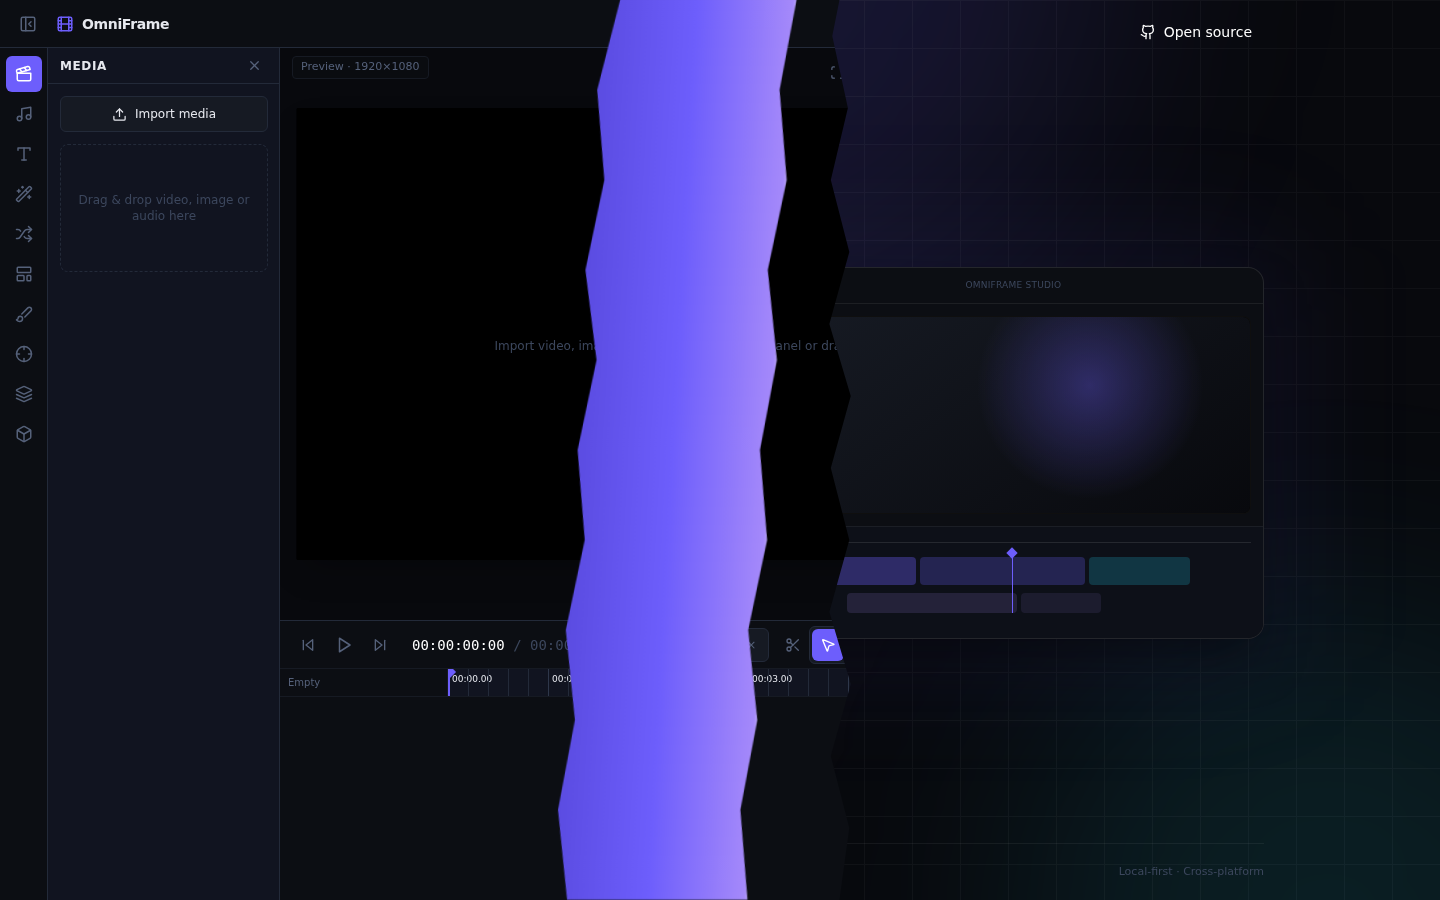
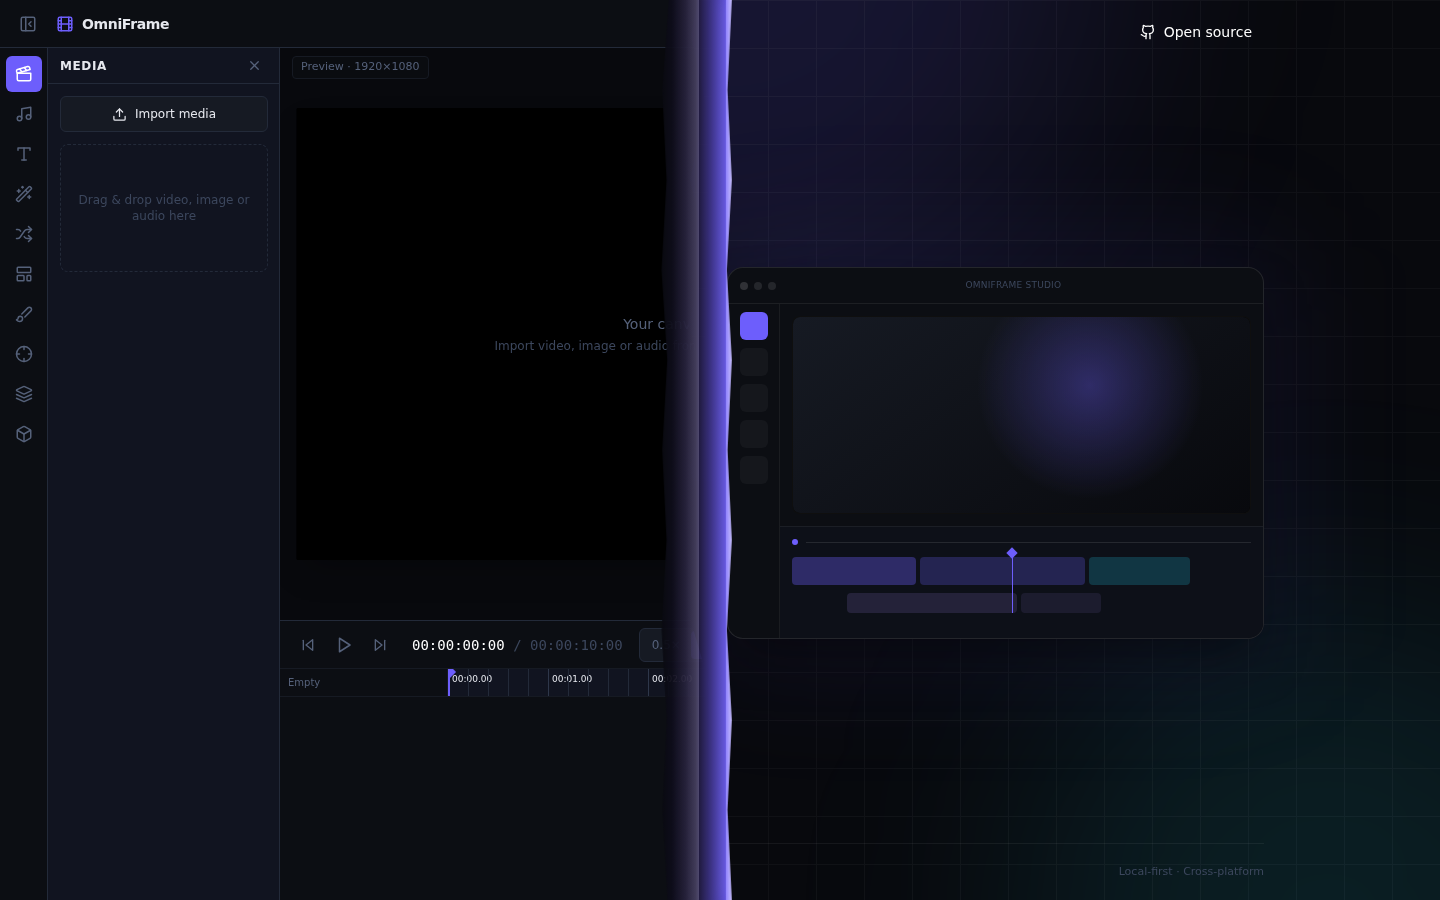
Refine Studio reveal into slim paper-cut transition

Changed region(s): [[0.375, 0.0, 0.5938, 1.0], [0.5625, 0.6844, 0.5938, 0.7467]]

diff --git a/src/App.tsx b/src/App.tsx
@@ -31,7 +31,7 @@ export default function App() {
       window.location.hash = 'studio'
       setStudio(true)
       setTransitioning(false)
-    }, reduced ? 60 : 1180)
+    }, reduced ? 60 : 980)
   }
 
   return (
@@ -47,9 +47,10 @@ export default function App() {
         </div>
       )}
       {transitioning && (
-        <div data-testid="transition-wave" className="pointer-events-none absolute inset-y-0 left-0 z-30 w-[14vw] min-w-24 of-transition-wave" aria-hidden="true">
-          <div className="absolute inset-0 bg-gradient-to-r from-brand-600 via-brand to-violet-400 shadow-[0_0_70px_rgba(109,94,252,.45)]" />
-          <div className="absolute inset-y-0 right-[-2px] w-1 bg-white/25 blur-[1px]" />
+        <div data-testid="transition-wave" className="pointer-events-none absolute inset-y-0 left-0 z-30 w-[5vw] min-w-12 max-w-20 of-transition-wave" aria-hidden="true">
+          <div className="absolute inset-0 bg-gradient-to-r from-[#090a10]/95 via-[#1a1530]/95 to-brand shadow-[-14px_0_28px_rgba(0,0,0,.45),10px_0_32px_rgba(109,94,252,.28)]" />
+          <div className="absolute inset-y-0 left-[16%] w-[38%] bg-gradient-to-r from-transparent via-violet-300/10 to-violet-200/25" />
+          <div className="absolute inset-y-0 right-0 w-1.5 bg-gradient-to-r from-brand-400 to-violet-200/80 shadow-[0_0_16px_rgba(144,131,255,.55)]" />
         </div>
       )}
     </div>

diff --git a/src/index.css b/src/index.css
@@ -83,16 +83,16 @@ body {
 .of-hero-copy { animation: of-copy-in 0.65s 0.08s cubic-bezier(.2,.8,.2,1) both; }
 .of-hero-visual { animation: of-visual-in 0.75s 0.16s cubic-bezier(.2,.8,.2,1) both; transform-style: preserve-3d; }
 .of-landing-leave {
-  animation: of-landing-mask-out 0.68s cubic-bezier(.4,0,.2,1) both;
+  animation: of-landing-mask-out 0.98s cubic-bezier(.4,0,.2,1) both;
 }
 
 @keyframes of-transition-wave-move {
-  0% { left: -14vw; transform: skewX(-5deg) scaleX(.9); }
-  48% { left: 43vw; transform: skewX(-3deg) scaleX(1); }
-  100% { left: 106vw; transform: skewX(-5deg) scaleX(.9); }
+  0% { left: -6vw; transform: scaleX(.82); }
+  48% { left: 47.5vw; transform: scaleX(1); }
+  100% { left: 103vw; transform: scaleX(.82); }
 }
 .of-transition-wave {
-  animation: of-transition-wave-move 1.18s cubic-bezier(.4,0,.2,1) both;
+  animation: of-transition-wave-move 0.98s cubic-bezier(.4,0,.2,1) both;
   clip-path: polygon(12% 0, 100% 0, 94% 10%, 100% 20%, 93% 30%, 100% 40%, 94% 50%, 100% 60%, 93% 70%, 100% 80%, 94% 90%, 100% 100%, 10% 100%, 3% 90%, 9% 80%, 2% 70%, 9% 60%, 3% 50%, 10% 40%, 2% 30%, 9% 20%, 3% 10%);
   will-change: left, transform;
 }

diff --git a/research/paper-transition-motion.md b/research/paper-transition-motion.md
@@ -1,0 +1,29 @@
+# Paper-cut transition motion research
+
+Retrieved 2026-09-21. Behavioral/visual research only; no stock imagery, video, texture, or third-party implementation is shipped.
+
+## References inspected
+
+- Envato Elements, “Realistic Paper Rip Transition Reveal”: https://elements.envato.com/ripped-paper-white-LPRYQEA
+  - Useful visual principles: a narrow irregular edge, subtle shadow beneath the lifted edge, and underlying content revealed immediately behind the moving boundary.
+- Envato Elements, “Dynamic Page Tear Reveal Transition”: https://elements.envato.com/ripping-paper-animation-3S6PARW
+  - Useful motion principles: a top layer peels away while the next scene already exists below it; crisp edge and restrained depth sell the physical metaphor.
+- CSS3Shapes, “How to Animate clip-path for Smooth Transitions”: https://css3shapes.com/how-to-animate-clip-path-for-smooth-transitions/
+  - Compatible polygon point counts interpolate smoothly; `will-change: clip-path` should remain narrowly scoped.
+- CSS Tools, “CSS Clip Path Animations”: https://csstools.io/blog/clip-path-animations
+  - Polygon reveal can remain compositor-friendly and should respect reduced-motion preferences.
+- Stack Overflow, “Ripped Paper CSS Effect using Polygon”: https://stackoverflow.com/questions/50874419/ripped-paper-css-effect-using-polygon
+  - Alternating polygon points create a torn/ripple edge without bitmap assets.
+
+Image-search thumbnails were inspected only to understand proportions and edge layering. They were not copied into the application or repository.
+
+## Independent OmniFrame implementation
+
+1. Keep Studio mounted below Landing before motion starts.
+2. Clip Landing away with a percentage-based sixteen-point polygon.
+3. Keep the transition wrapper narrow: at most 80 CSS pixels on the measured desktop viewport.
+4. Use a nearly black fold side, restrained violet inner reflection, and a narrow illuminated seam—not a large solid-color block.
+5. Add asymmetric shadow on both sides to imply lifted paper and separation between scenes.
+6. Use one synchronized 980ms duration for route timer, landing mask, and paper-cut edge.
+7. Preserve the 60ms reduced-motion path.
+8. Use generated CSS gradients and vectors only; ship no third-party transition media.

diff --git a/MEMORY.md b/MEMORY.md
@@ -4796,3 +4796,17 @@ This addendum supersedes earlier `NOT-TESTED` backlog rows where the same named 
 - [SOURCE-CODE] PASS Route completion timer increased to the same 1180ms, preserving synchronization between mask, wave, and Studio activation.
 - [OBSERVED] PASS Extended transition retained live Studio beneath the mask and the restored violet wave between both scenes.
 - [OBSERVED] PASS Landing suite completed 23 assertions with zero runtime errors and zero failed requests.
+
+# Slim paper-cut transition and 0.2-second speed increase — 2026-09-21
+
+- [USER-CORRECTION] Transition requested 0.2 seconds faster and the visible wrapper was considered oversized.
+- [RESEARCH] PASS Paper-tear/page-reveal references consistently use a narrow irregular edge, lifted-edge shadow, and immediate visibility of the scene below.
+- [SOURCE-CODE] PASS Transition duration decreased from 1.18s to 0.98s for route timer, Landing mask, and moving edge together.
+- [SOURCE-CODE] PASS Visible wrapper decreased from 14vw/minimum 96px to 5vw with a 48px minimum and 80px maximum.
+- [SOURCE-CODE] PASS Removed full-width skew, which had enlarged the wrapper bounding box across the full viewport height.
+- [SOURCE-CODE] PASS Replaced the large violet block with a nearly black folded side, restrained violet reflection, 1.5px illuminated seam, and asymmetric paper-lift shadows.
+- [SOURCE-CODE] PASS Alternating polygon points retain an organic cut edge without external bitmap or stock-video assets.
+- [MEASURED] PASS Browser measured the moving paper edge at 71.44px wide and animation duration at exactly 0.98s.
+- [SCREENSHOT] PASS `qa/screenshots/landing-transition.png` shows the slim paper-cut seam separating live Studio and Landing scenes.
+- [OBSERVED] PASS Landing suite completed 24 assertions with zero runtime errors and zero failed requests.
+- [SOURCE-CODE] PASS Research and implementation decisions are recorded in `research/paper-transition-motion.md`.
